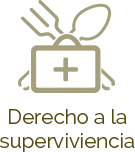
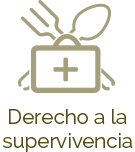
Corrección a botón

Changed region(s): [[0.0, 0.8684, 1.0, 1.0]]

diff --git a/cednna/web-app/css/custom.css b/cednna/web-app/css/custom.css
@@ -824,7 +824,7 @@ margin: 0 20px 20px 0;
 
 #bot_prog .bot1 { background: url(../img/dashboard/bot1.png) 30px 28px no-repeat #b6d8ce; }
 #bot_prog .bot2 { background: url(../img/dashboard/bot2.png) 66px 28px no-repeat #dcd5b2; }
-#bot_prog .bot3 { background: url(../img/dashboard/bot3.png) 76px 28px no-repeat #ebd5b1; }
+#bot_prog .bot3 { background: url(../img/dashboard/bot3.png) 80px 28px no-repeat #ebd5b1; }
 #bot_prog .bot4 { background: url(../img/dashboard/bot4.png) 70px 28px no-repeat #ffdca5; }
 #bot_prog .bot5 { background: url(../img/dashboard/bot5.png) 60px 28px no-repeat #e3c5bb; }
 #bot_prog .bot6 { background: url(../img/dashboard/bot6.png) 40px 28px no-repeat #e6cbb3; }
